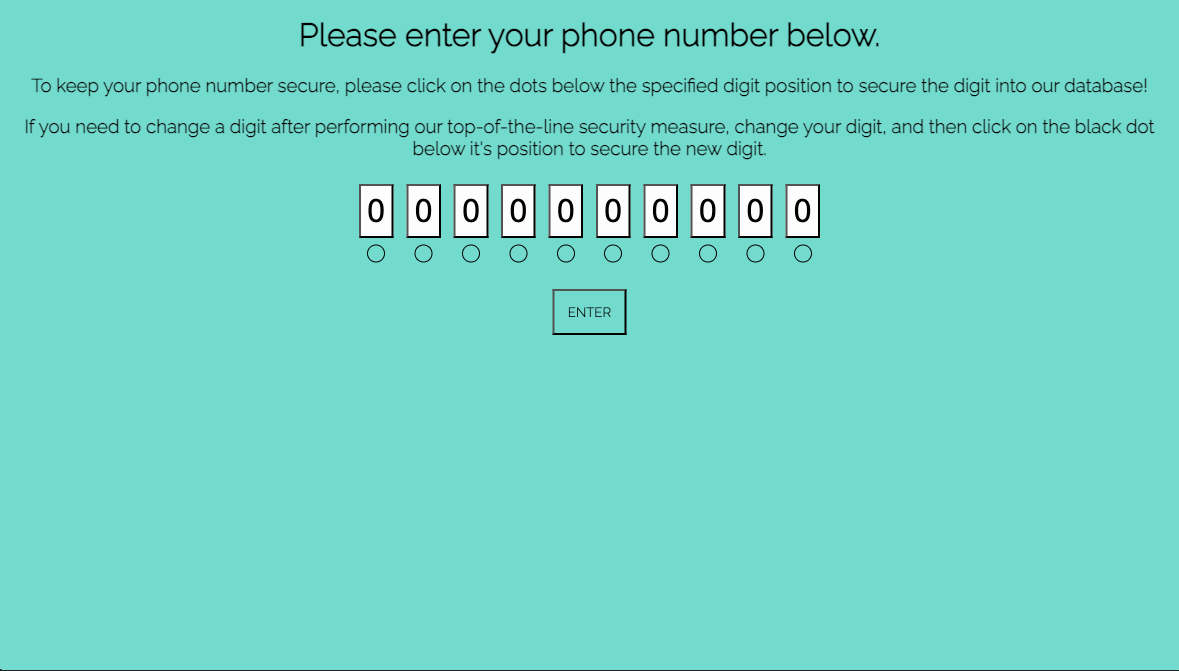
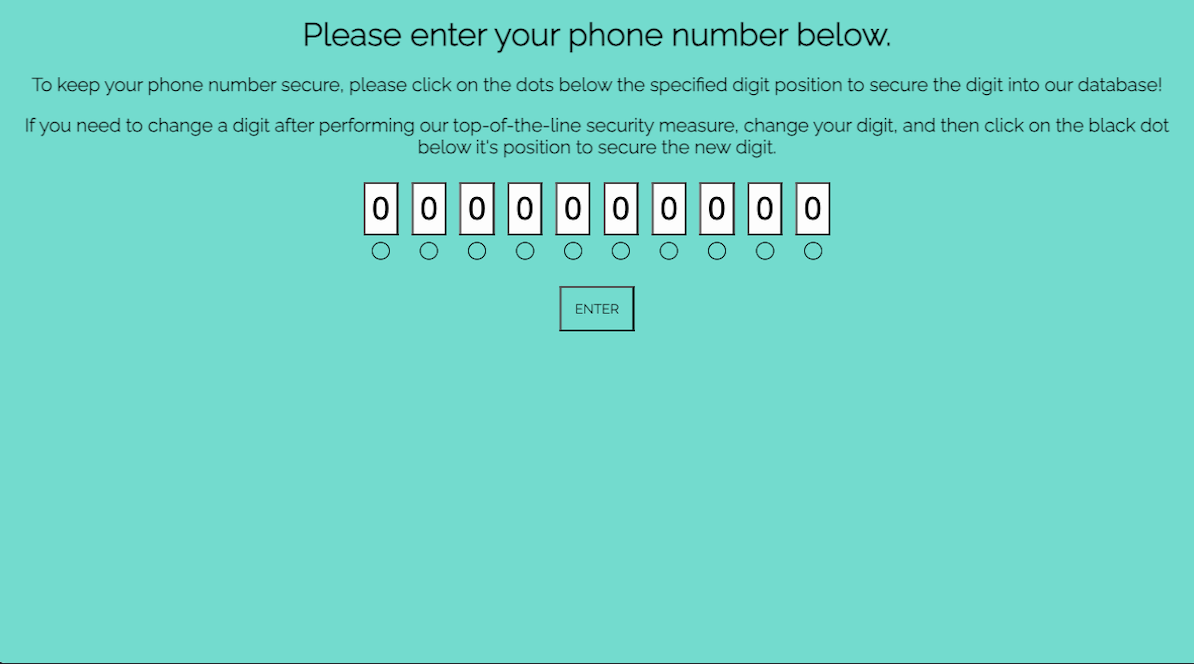
portfolio done!

diff --git a/web_3150_portfolio/projects.html b/web_3150_portfolio/projects.html
@@ -26,6 +26,67 @@
             <div class="header-left">
                 <h2>Projects</h2>
             </div>
+            <div class="all-projects-container">
+                <div class="project-container">
+                    <a href="https://limit-break.vercel.app/" target="_blank" rel="noopener noreferrer"><img src="images/limitbreak.png" alt="first web project" class="project-img"></a>
+                    <div class="title-and-logos">
+                        <p class="project-title">Limit Break: Fear-Facing App</p>
+
+                        <img src="images/react-logo.svg" alt="react logo" height="30" width="30">
+                        <img src="images/css3_blackwhite.svg" alt="css3 logo" height="30" width="30">
+                        <img src="images/Logomark_Monochrome_White.png" alt="firebase logo" height="30" width="30">
+                    </div>
+                </div>
+                <div class="project-container">
+                    <a href="https://pelletier-4630-project1-mile3-wip.vercel.app/index.html" target="_blank" rel="noopener noreferrer"><img src="images/web-project-1.png" alt="first web project" class="project-img"></a>
+                    <div class="title-and-logos">
+                        <p class="project-title">Mock Clothing Homepage</p>
+                        <img src="images/html5_blackwhite.svg" alt="html5 logo" height="30" width="30">
+                        <img src="images/css3_blackwhite.svg" alt="css3 logo" height="30" width="30">
+                        <img src="images/js_blackwhite.svg" alt="js logo" height="30" width="30">
+                        
+                    </div>
+                </div>
+                <div class="project-container">
+                    <a href="https://codepen.io/joey1pelletier/pen/gOEWrdb" target="_blank" rel="noopener noreferrer"><img src="images/web-project-2.png" alt="second web project" class="project-img"></a>
+                    <div class="title-and-logos">
+                        <p class="project-title">Mock Symphony Homepage</p>
+                        <img src="images/html5_blackwhite.svg" alt="html5 logo" height="30" width="30">
+                        <img src="images/css3_blackwhite.svg" alt="css3 logo" height="30" width="30">
+                    </div>
+                </div>
+            </div>
+            <div class="all-projects-container">
+                <div class="project-container">
+                    <a href="https://joey1pelletier.me/js-midterm/index.html" target="_blank" rel="noopener noreferrer"><img src="images/web-project-3.png" alt="fourth web project" class="project-img"></a>
+                    <div class="title-and-logos">
+                        <p class="project-title">Annoying Phone # Enterer</p>
+
+                        <img src="images/html5_blackwhite.svg" alt="html logo" height="30" width="30">
+                        <img src="images/css3_blackwhite.svg" alt="css3 logo" height="30" width="30">
+                        <img src="images/js_blackwhite.svg" alt="js logo" height="30" width="30">
+                    </div>
+                </div>
+                <div class="project-container">
+                    <a href="https://joey1pelletier.me/pelletier-atls3150/css_layout/index.html" target="_blank" rel="noopener noreferrer"><img src="images/lab4css.png" alt="5th web project" class="project-img"></a>
+                    <div class="title-and-logos">
+                        <p class="project-title">Mock deadmau5 Homepage</p>
+                        <img src="images/html5_blackwhite.svg" alt="html5 logo" height="30" width="30">
+                        <img src="images/css3_blackwhite.svg" alt="css3 logo" height="30" width="30">
+                        
+                    </div>
+                </div>
+                <div class="project-container">
+                    <a href="https://joey1pelletier.me/pelletier-atls3150/big12_table/index.html" target="_blank" rel="noopener noreferrer"><img src="images/bigxii-image.png" alt="sixth web project" class="project-img"></a>
+                    <div class="title-and-logos">
+                        <p class="project-title">Mock Big 12 Homepage</p>
+                        <img src="images/html5_blackwhite.svg" alt="html5 logo" height="30" width="30">
+                        <img src="images/css3_blackwhite.svg" alt="css3 logo" height="30" width="30">
+                    </div>
+                </div>
+            </div>
+            </div>
+
         </div>
     </main>
 </body>

diff --git a/web_3150_portfolio/res_bio.html b/web_3150_portfolio/res_bio.html
@@ -1,0 +1,49 @@
+<!DOCTYPE html>
+<html lang="en">
+<head>
+    <meta charset="UTF-8">
+    <meta name="viewport" content="width=device-width, initial-scale=1.0">
+    <title>Bio - Joey Pelletier</title>
+    <link rel="stylesheet" href="style.css">
+</head>
+<body>
+    <a class="skip-link" href="#main-area">Skip to main content</a>
+    <header>
+        <nav>
+            <div class="top-nav">
+                <a href="index.html">HOME</a>
+                <a href="projects.html">PROJECTS</a>
+                <div id="logo">
+                    <img src="images/pelletier_bodoni_black_background.svg" alt="JP logo" height="50" width="50">
+                </div>
+                <a href="res_bio.html">BIO</a>
+                <a href="resume/Pelletier-Resume.pdf" download>RESUME</a>
+            </div>
+        </nav>
+    </header>
+    <div class="projects-page-section">
+        <div class="header-left">
+            <h2>Bio</h2>
+        </div>
+        <section class="action">
+            <div class="img-side">
+                <img src="images/DSC_1723.JPG" alt="joey photo">
+            </div>
+            <div class="text-side">
+                <div class="bio-name">
+                    <h3>About Joey</h3>
+                </div>
+                <p class="bio-text">Hi! I'm Joey Pelletier, a 4th year student at University of Colorado Boulder, studying B.S. Creative Technology and Design. I'm passionate about creating beautiful, responsive websites that blend design with functionality.</p>
+                <p class="bio-text">I love designing Figma wireframes and turning them into interactive experiences and working with HTML, CSS, JavaScript to bring ideas to life. Making substantial web apps with React and Firebase is also a fun challenge that I like to tackle!</p>
+                <p class="bio-text">Right now, I'm looking for opportunities to grow as a web designer and developer—whether through internships, part-time/full-time positions, and/or freelance projects.</p>
+                <p class="bio-text">Outside of my career aspirations, I like to play piano, participate/compete in club fencing, in addition to learning new ice-skating techniques!</p>
+                <div class="bio-name">
+                    <h3>Let's connect!</h3>
+                </div>
+                <p class="bio-text">Email: joey1pelletier.gmail.com</p>
+                <p class="bio-text">LinkedIn: www.linkedin.com/in/joseph-pelletier-073564238</p>
+            </div>
+        </section>
+    </div>
+</body>
+</html>

diff --git a/web_3150_portfolio/style.css b/web_3150_portfolio/style.css
@@ -79,6 +79,29 @@ body {
    border-bottom: 1px solid white;
 }
 
+.text-side {
+    padding-left: 4em;
+    display: flex;
+    flex-direction: column;
+    width: 50vw;
+}
+
+.bio-name {
+    font-family: 'Bodoni Moda', 'serif';
+    border-bottom: 1px solid white;
+    width: fit-content;
+    font-size: 2em;
+    padding-top: 0.5em;
+}
+
+.bio-text {
+    font-family: 'Raleway', sans-serif;
+    font-size: 1.15em;
+    padding-top: 1em;
+    line-height: 1.5em;
+
+}
+
 .job-title {
     font-size: 2.25em;
     margin-top: 0.5em;
@@ -375,6 +398,11 @@ textarea {
     align-items: center;
 }
 
+.img-side img{
+    padding-left: 4.5em;
+    padding-top: 3em;
+    width: 40vw;
+}
 
 
 @keyframes arrow-load {
@@ -518,8 +546,25 @@ textarea {
 
     .all-projects-container {
         flex-direction: column;
+        padding: 0;
     }
 
+    .img-side img{
+        padding-left: 0;
+        padding-top: 0;
+        width: 40vw;
+    }
+    .text-side {
+        padding-left: 0;
+        display: flex;
+        align-items: center;
+        justify-content: center;
+        width: 70vw;
+    }
+
+    .bio-name {
+        padding-top: 1em;
+    }
 
 }
 
@@ -570,6 +615,10 @@ textarea {
     
     .top-nav #logo {
         margin: 0em 0.5em 0em 0.5em;
+    }
+
+    .skills-sub h3 {
+        font-size: 1.25em;
     }
 
     .logo-container {

diff --git a/big12_table/style.css b/big12_table/style.css
@@ -45,7 +45,7 @@ header {
     display: flex;
     justify-content: center;
     align-items: center;
-    background-image: linear-gradient(rgba(0, 144, 216, 0.65), rgba(0, 255, 68, 0.65));
+    background-image: url('img/big12-image.png');
     background-size: cover;
     width: 100vw;
     height: 20vw;

diff --git a/big12_table/index.html b/big12_table/index.html
@@ -7,7 +7,6 @@
     <link rel="stylesheet" href="style.css">
 </head>
 <body>
-    <a class ="skip-nav" href="#landing-header">Skip to content</a>
     <nav>
         <div class="top-nav">
             <a href="#news">NEWS</a>
